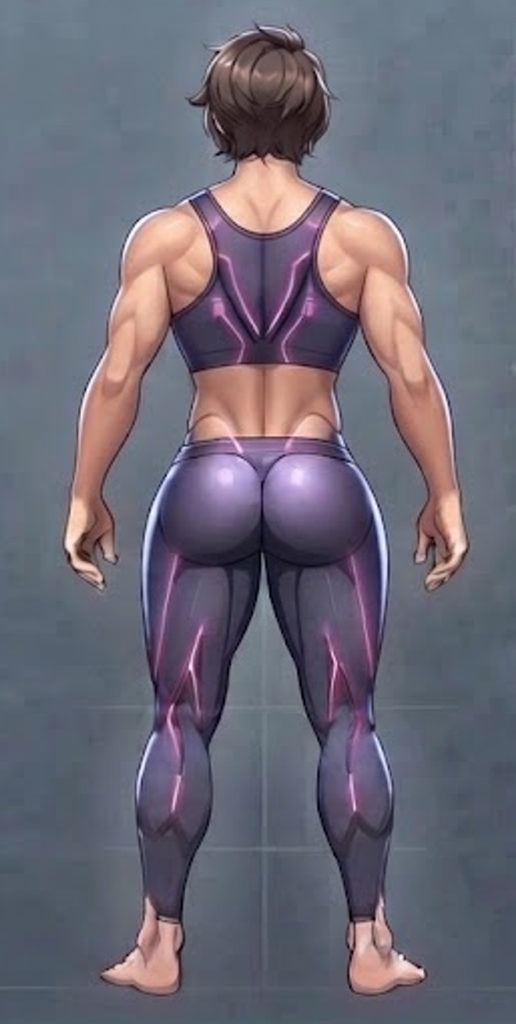
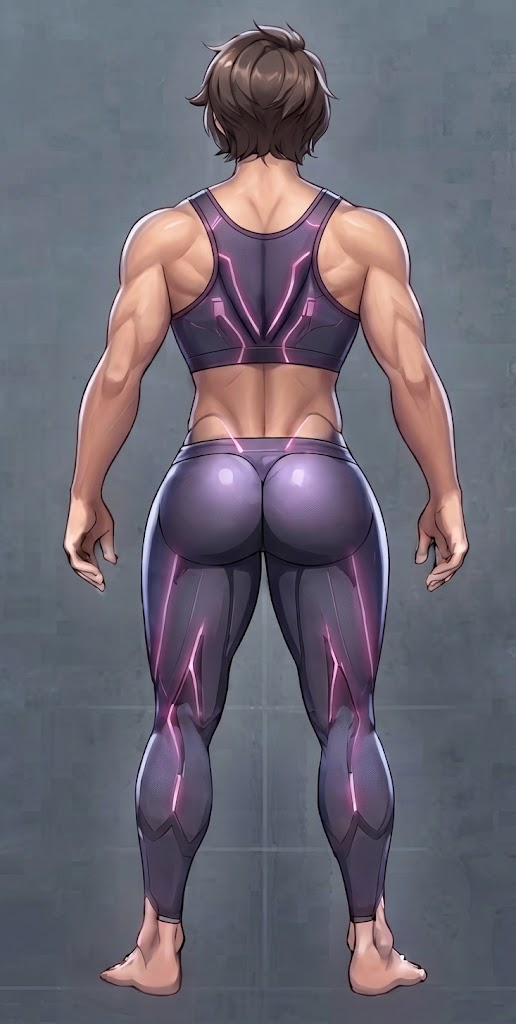
feat(medidas,comida,entreno): high-res female croquis, visible unmeasured areas, time dropdown, and sticky mode buttons

diff --git a/src/MeasureScreen.tsx b/src/MeasureScreen.tsx
@@ -797,8 +797,8 @@ function AnimeBodyMapCard({
             <Text style={measureStyles.legendLabel}>Medido</Text>
           </View>
           <View style={measureStyles.legendItem}>
-            <View style={[measureStyles.legendDot, { backgroundColor: 'rgba(167, 139, 250, 0.25)', borderColor: '#A78BFA', borderWidth: 1 }]} />
-            <Text style={measureStyles.legendLabel}>Por medir (Toca músculo o burbuja)</Text>
+            <View style={[measureStyles.legendDot, { backgroundColor: 'rgba(15, 23, 42, 0.72)', borderColor: '#94A3B8', borderWidth: 1.2 }]} />
+            <Text style={measureStyles.legendLabel}>Por medir (Área oscura)</Text>
           </View>
           <View style={measureStyles.legendItem}>
             <View style={[measureStyles.legendDot, { backgroundColor: 'rgba(203, 213, 225, 0.4)' }]} />
@@ -1010,6 +1010,26 @@ function AnimeBodyVector({
     const val = measurements[partKey];
     const isMeasured = val !== undefined && val > 0;
     const showHighlight = isMeasured && isPrimaryForView;
+    const showUnmeasuredPrimary = !isMeasured && isPrimaryForView;
+
+    // Si tiene medida: brillo neón violeta/magenta; si NO tiene valor definido: área oscura/opaca claramente visible
+    const pathFill = showHighlight
+      ? 'rgba(232, 121, 249, 0.30)'
+      : showUnmeasuredPrimary
+      ? 'rgba(15, 23, 42, 0.56)'
+      : isMeasured
+      ? 'rgba(232, 121, 249, 0.14)'
+      : 'rgba(15, 23, 42, 0.36)';
+
+    const pathStroke = showHighlight
+      ? '#F0ABFC'
+      : showUnmeasuredPrimary
+      ? 'rgba(148, 163, 184, 0.82)'
+      : isMeasured
+      ? 'rgba(240, 171, 252, 0.45)'
+      : 'rgba(148, 163, 184, 0.48)';
+
+    const pathStrokeWidth = showHighlight ? 2.6 : showUnmeasuredPrimary ? 1.8 : 1.2;
 
     return (
       <G key={`${view}_${partKey}`}>
@@ -1027,29 +1047,30 @@ function AnimeBodyVector({
         <Path
           d={d}
           onPress={() => onSelectPart(partKey)}
-          fill={showHighlight ? 'rgba(232, 121, 249, 0.28)' : 'rgba(255, 255, 255, 0.008)'}
-          stroke={showHighlight ? '#F0ABFC' : 'transparent'}
-          strokeWidth={showHighlight ? 2.6 : 0}
+          fill={pathFill}
+          stroke={pathStroke}
+          strokeWidth={pathStrokeWidth}
+          strokeDasharray={!isMeasured ? '6,4' : undefined}
           strokeLinejoin="round"
           strokeLinecap="round"
         />
         {isPrimaryForView && (
           <G pointerEvents="none">
-            {showHighlight && (
-              <Circle
-                cx={centerX}
-                cy={centerY}
-                r={11}
-                fill="rgba(232, 121, 249, 0.32)"
-              />
-            )}
+            <Circle
+              cx={centerX}
+              cy={centerY}
+              r={showHighlight ? 11 : 9}
+              fill={showHighlight ? 'rgba(232, 121, 249, 0.32)' : 'rgba(15, 23, 42, 0.72)'}
+              stroke={showHighlight ? 'none' : 'rgba(148, 163, 184, 0.75)'}
+              strokeWidth={showHighlight ? 0 : 1.2}
+            />
             <Circle
               cx={centerX}
               cy={centerY}
               r={showHighlight ? 5.5 : 3.8}
-              fill={showHighlight ? '#E879F9' : 'rgba(248, 250, 252, 0.75)'}
-              stroke={showHighlight ? '#FFFFFF' : 'rgba(196, 181, 253, 0.7)'}
-              strokeWidth={1.6}
+              fill={showHighlight ? '#E879F9' : 'rgba(226, 232, 240, 0.88)'}
+              stroke={showHighlight ? '#FFFFFF' : 'rgba(15, 23, 42, 0.9)'}
+              strokeWidth={1.5}
             />
           </G>
         )}
@@ -1213,11 +1234,11 @@ function AnimeBodyVector({
 ========================================================== */
 type TimeFilterRange = '7D' | '30D' | '90D' | 'ALL';
 
-const TIME_FILTER_OPTIONS: { key: TimeFilterRange; label: string }[] = [
-  { key: '7D', label: '7 días' },
-  { key: '30D', label: '30 días' },
-  { key: '90D', label: '90 días' },
-  { key: 'ALL', label: 'Todo' },
+const TIME_FILTER_OPTIONS: { key: TimeFilterRange; label: string; shortLabel: string }[] = [
+  { key: '7D', label: 'Últimos 7 días', shortLabel: 'Últimos 7 días' },
+  { key: '30D', label: 'Últimos 30 días', shortLabel: 'Últimos 30 días' },
+  { key: '90D', label: 'Últimos 90 días', shortLabel: 'Últimos 90 días' },
+  { key: 'ALL', label: 'Todo el historial', shortLabel: 'Todo el historial' },
 ];
 
 const CHARTABLE_PARTS: BodyPartKey[] = [
@@ -1247,6 +1268,7 @@ function BodyPartGrowthChartCard({
   onOpenEditModal: (p: BodyPartKey) => void;
 }) {
   const [timeFilter, setTimeFilter] = useState<TimeFilterRange>('ALL');
+  const [timeDropdownOpen, setTimeDropdownOpen] = useState(false);
   const { width: screenWidth } = useWindowDimensions();
   const chartWidth = Math.max(260, Math.min(360, screenWidth - 64));
   const chartHeight = 155;
@@ -1330,12 +1352,15 @@ function BodyPartGrowthChartCard({
   const isPositiveGrowth = delta > 0;
   const isFavorable = isWaist ? delta <= 0 : delta >= 0;
 
+  const activeTimeOption =
+    TIME_FILTER_OPTIONS.find((o) => o.key === timeFilter) || TIME_FILTER_OPTIONS[3];
+
   return (
     <View style={measureStyles.growthChartCard}>
       {/* Fondo con glassmorphism suave */}
       <LinearGradient colors={GRADIENTS.cardGlass} style={measureStyles.growthChartGradient}>
-        {/* Cabecera: Título + Selector de Rango de Tiempo (7D, 30D, 90D, Todo) */}
-        <View style={measureStyles.chartHeaderRow}>
+        {/* Cabecera: Título + Botón Dropdown de Rango de Tiempo */}
+        <View style={[measureStyles.chartHeaderRow, { zIndex: 40 }]}>
           <View style={{ flex: 1, marginRight: 8 }}>
             <View style={measureStyles.chartTagBadge}>
               <Ionicons name="trending-up-outline" size={12} color="#8B5CF6" />
@@ -1344,30 +1369,60 @@ function BodyPartGrowthChartCard({
             <Text style={measureStyles.chartTitle}>Gráfica de Crecimiento</Text>
           </View>
 
-          {/* Selector de Rango Temporal */}
-          <View style={measureStyles.timeFilterBar}>
-            {TIME_FILTER_OPTIONS.map((tf) => {
-              const active = timeFilter === tf.key;
-              return (
-                <Pressable
-                  key={tf.key}
-                  onPress={() => setTimeFilter(tf.key)}
-                  style={[
-                    measureStyles.timeFilterBtn,
-                    active && measureStyles.timeFilterBtnActive,
-                  ]}
-                >
-                  <Text
-                    style={[
-                      measureStyles.timeFilterBtnText,
-                      active && measureStyles.timeFilterBtnTextActive,
-                    ]}
-                  >
-                    {tf.label}
-                  </Text>
-                </Pressable>
-              );
-            })}
+          {/* Botón Dropdown de Selección de Tiempo */}
+          <View style={measureStyles.timeDropdownWrapper}>
+            <Pressable
+              onPress={() => setTimeDropdownOpen((prev) => !prev)}
+              style={({ pressed }) => [
+                measureStyles.timeDropdownBtn,
+                timeDropdownOpen && measureStyles.timeDropdownBtnActive,
+                pressed && s.btnPressed,
+              ]}
+            >
+              <Ionicons name="calendar-outline" size={13} color="#8B5CF6" />
+              <Text style={measureStyles.timeDropdownBtnText} numberOfLines={1}>
+                {activeTimeOption.shortLabel}
+              </Text>
+              <Ionicons
+                name={timeDropdownOpen ? 'chevron-up' : 'chevron-down'}
+                size={14}
+                color="#8B5CF6"
+              />
+            </Pressable>
+
+            {timeDropdownOpen && (
+              <View style={measureStyles.timeDropdownMenu}>
+                {TIME_FILTER_OPTIONS.map((tf) => {
+                  const active = timeFilter === tf.key;
+                  return (
+                    <Pressable
+                      key={tf.key}
+                      onPress={() => {
+                        setTimeFilter(tf.key);
+                        setTimeDropdownOpen(false);
+                      }}
+                      style={({ pressed }) => [
+                        measureStyles.timeDropdownOption,
+                        active && measureStyles.timeDropdownOptionActive,
+                        pressed && { opacity: 0.75 },
+                      ]}
+                    >
+                      <Text
+                        style={[
+                          measureStyles.timeDropdownOptionText,
+                          active && measureStyles.timeDropdownOptionTextActive,
+                        ]}
+                      >
+                        {tf.label}
+                      </Text>
+                      {active && (
+                        <Ionicons name="checkmark-circle" size={15} color="#8B5CF6" />
+                      )}
+                    </Pressable>
+                  );
+                })}
+              </View>
+            )}
           </View>
         </View>
 
@@ -2202,32 +2257,69 @@ const measureStyles = StyleSheet.create({
     fontSize: 16,
     fontWeight: '800',
   },
-  timeFilterBar: {
+  timeDropdownWrapper: {
+    position: 'relative',
+    zIndex: 50,
+  },
+  timeDropdownBtn: {
     flexDirection: 'row',
-    backgroundColor: 'rgba(241, 245, 249, 0.95)',
-    borderRadius: 12,
-    padding: 2,
-    borderWidth: 1,
-    borderColor: 'rgba(226, 232, 240, 0.8)',
-  },
-  timeFilterBtn: {
-    paddingHorizontal: 7,
-    paddingVertical: 4,
-    borderRadius: 9,
-  },
-  timeFilterBtnActive: {
+    alignItems: 'center',
+    gap: 6,
     backgroundColor: '#FFFFFF',
+    paddingHorizontal: 11,
+    paddingVertical: 7,
+    borderRadius: 12,
+    borderWidth: 1,
+    borderColor: 'rgba(139, 92, 246, 0.35)',
     shadowColor: '#8B5CF6',
-    shadowOpacity: 0.15,
-    shadowRadius: 4,
+    shadowOpacity: 0.1,
+    shadowRadius: 5,
     elevation: 2,
   },
-  timeFilterBtnText: {
-    color: C.sub,
-    fontSize: 10,
-    fontWeight: '700',
+  timeDropdownBtnActive: {
+    borderColor: '#8B5CF6',
+    backgroundColor: '#FAF5FF',
   },
-  timeFilterBtnTextActive: {
+  timeDropdownBtnText: {
+    color: '#8B5CF6',
+    fontSize: 11.5,
+    fontWeight: '800',
+  },
+  timeDropdownMenu: {
+    position: 'absolute',
+    top: 38,
+    right: 0,
+    width: 175,
+    backgroundColor: '#FFFFFF',
+    borderRadius: 14,
+    paddingVertical: 4,
+    borderWidth: 1,
+    borderColor: 'rgba(139, 92, 246, 0.35)',
+    shadowColor: '#0F172A',
+    shadowOpacity: 0.18,
+    shadowRadius: 12,
+    shadowOffset: { width: 0, height: 6 },
+    elevation: 10,
+    zIndex: 100,
+  },
+  timeDropdownOption: {
+    flexDirection: 'row',
+    alignItems: 'center',
+    justifyContent: 'space-between',
+    paddingHorizontal: 12,
+    paddingVertical: 9,
+    borderBottomWidth: 1,
+    borderBottomColor: 'rgba(226, 232, 240, 0.5)',
+  },
+  timeDropdownOptionActive: {
+    backgroundColor: 'rgba(139, 92, 246, 0.08)',
+  },
+  timeDropdownOptionText: {
+    color: C.text,
+    fontSize: 12,
+    fontWeight: '600',
+  },
+  timeDropdownOptionTextActive: {
     color: '#8B5CF6',
     fontWeight: '800',
   },

diff --git a/src/FoodScreen.tsx b/src/FoodScreen.tsx
@@ -148,6 +148,7 @@ export default function FoodScreen() {
           styles.scrollContent,
           tab === 1 && { paddingBottom: 320 }, // <--- Espacio amplio para scrollear libremente sobre el teclado
         ]}
+        stickyHeaderIndices={[2]}
         automaticallyAdjustKeyboardInsets={true}
         keyboardDismissMode="on-drag"
         keyboardShouldPersistTaps="handled"
@@ -174,11 +175,13 @@ export default function FoodScreen() {
         {/* Resumen de Macros Animado */}
         <MacroSummary m={total} />
 
-        {/* Selector Maestro de Pestaña Principal (Nivel 1 con Gap Reducido) */}
-        <MainNavigationSegmented
-          value={tab}
-          onChange={setTab}
-        />
+        {/* Selector Maestro de Pestaña Principal (Sticky al hacer scroll down) */}
+        <View style={styles.stickyTabsContainer}>
+          <MainNavigationSegmented
+            value={tab}
+            onChange={setTab}
+          />
+        </View>
 
         {/* Contenido animado ultra smooth según pestaña */}
         <Animated.View
@@ -927,6 +930,12 @@ const styles = StyleSheet.create({
   scrollContent: {
     padding: 16,
     paddingBottom: 130,
+  },
+  stickyTabsContainer: {
+    backgroundColor: C.bg,
+    paddingTop: 2,
+    paddingBottom: 8,
+    zIndex: 25,
   },
   topHeader: {
     flexDirection: 'row',

diff --git a/src/TrainScreen.tsx b/src/TrainScreen.tsx
@@ -195,6 +195,7 @@ export default function TrainScreen() {
           styles.scrollContent,
           tab === 1 && { paddingBottom: 320 },
         ]}
+        stickyHeaderIndices={[2]}
         automaticallyAdjustKeyboardInsets={true}
         keyboardDismissMode="on-drag"
         keyboardShouldPersistTaps="handled"
@@ -232,8 +233,10 @@ export default function TrainScreen() {
           onOpenRangePicker={() => setRangeModalOpen(true)}
         />
 
-        {/* Selector Maestro de Modo (Píldora deslizante ultra smooth) */}
-        <TrainNavigationSegmented value={tab} onChange={setTab} />
+        {/* Selector Maestro de Modo (Sticky al hacer scroll down) */}
+        <View style={styles.stickyTabsContainer}>
+          <TrainNavigationSegmented value={tab} onChange={setTab} />
+        </View>
 
         {/* Contenido Animado según pestaña */}
         <Animated.View
@@ -1916,6 +1919,12 @@ const styles = StyleSheet.create({
   scrollContent: {
     padding: 16,
     paddingBottom: 130,
+  },
+  stickyTabsContainer: {
+    backgroundColor: C.bg,
+    paddingTop: 2,
+    paddingBottom: 8,
+    zIndex: 25,
   },
   topHeader: {
     flexDirection: 'row',
